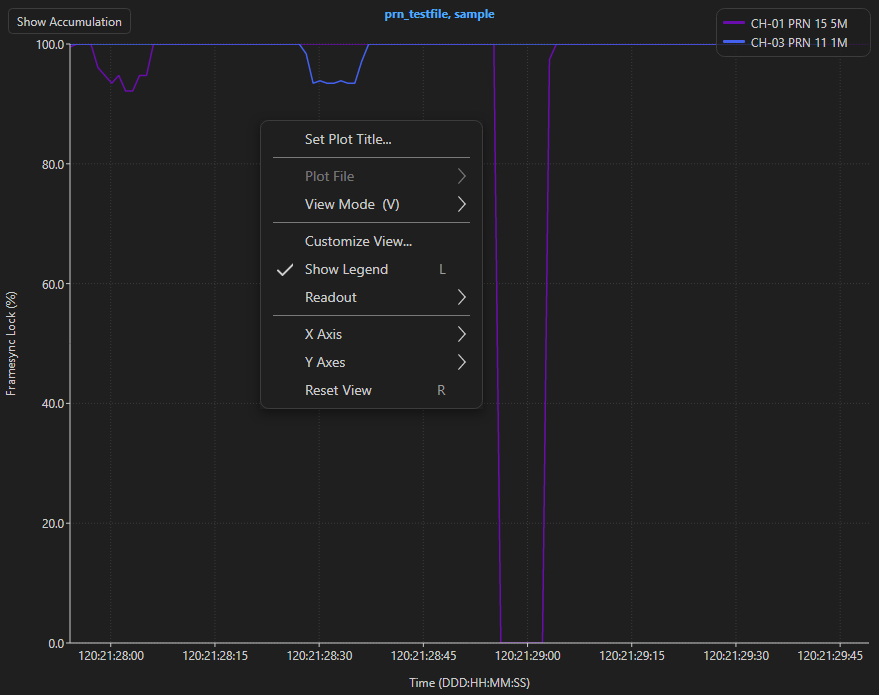
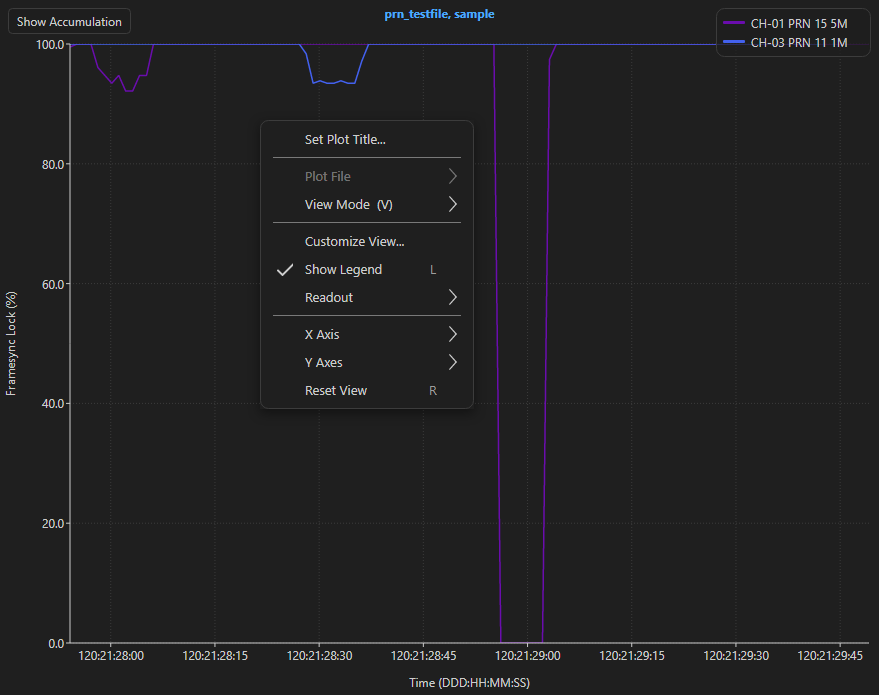
feat(ui): body text at 13 px, as VS Code's is
ControlContentThemeFontSize (the size every control Fluent draws takes its text at, and a window's own text) and our body token are
13, where Fluent's is 14; Customize View's tab headers use the body token. Captions, the chart, the log and the status bar stay 12.
Menu rows stay 28 px (the padding is 5 + 5 now).

Tests: a new one holds the size on every kind of control; mutation check 4/4 caught. App baseline 641 passed / 0 failed / 34 not run.

diff --git a/tests/TmDq.App.Tests/ShellTests.cs b/tests/TmDq.App.Tests/ShellTests.cs
@@ -797,6 +797,33 @@ public sealed class ShellTests : IDisposable
     }
 
     [AvaloniaFact]
+    public void TheTextOfEveryControlIsThirteenPixelsAsVSCodesIs()
+    {
+        // The size Fluent's controls take their text at, and the body token our own text uses, are one: 13, where Fluent's is 14.
+        foreach (ThemeVariant theme in new[] { ThemeVariant.Light, ThemeVariant.Dark })
+        {
+            Assert.True(Application.Current!.TryFindResource("ControlContentThemeFontSize", theme, out object? control));
+            Assert.True(Application.Current!.TryFindResource("BodyTextBlockFontSize", theme, out object? body));
+            Assert.Equal((13.0, 13.0), ((double)control!, (double)body!));
+        }
+        // And the controls do take it, whatever they are: a window's own text, a button, a field, a dropdown, a box, a menu row
+        // (a tab header is display-sized in Fluent, and a dialog's own, in Customize View, is the body size).
+        var text = new TextBlock { Text = "text" };
+        var button = new Button { Content = "OK" };
+        var input = new TextBox { Text = "t" };
+        var combo = new ComboBox { ItemsSource = new[] { "a" }, SelectedIndex = 0 };
+        var box = new CheckBox { Content = "c" };
+        var menu = new MenuFlyoutPresenter { Items = { new MenuItem { Header = "item" } } };
+        var window = new Window { Content = new StackPanel { Children = { text, button, input, combo, box, menu } } };
+        window.Show();
+        Dispatcher.UIThread.RunJobs();
+        Assert.Equal(13.0, window.FontSize);
+        Assert.All(new Control[] { text, button, input, combo, box, (Control)menu.Items[0]! },
+                   c => Assert.Equal((c.GetType().Name, 13.0), (c.GetType().Name, c is TextBlock t ? t.FontSize : ((Avalonia.Controls.Primitives.TemplatedControl)c).FontSize)));
+        window.Close();
+    }
+
+    [AvaloniaFact]
     public void EveryBrushFluentLooksItsControlsUpUnderIsAnAliasOfTheTokenForItsJob()
     {
         // The brushes Fluent's controls, and our chips and loading label, are drawn with are never colours of their own:
@@ -839,10 +866,10 @@ public sealed class ShellTests : IDisposable
         double Double(string key) => (double)Resource(key, theme);
         CornerRadius Radius(string key) => (CornerRadius)Resource(key, theme);
         // Segoe UI Variable, which Windows 11's Fluent is drawn in (Avalonia's own Fluent theme asks for Inter, which is not
-        // bundled, and so fell back to the system font); a caption of 12 and a body of 14; a control's corners 4 and an
+        // bundled, and so fell back to the system font); a caption of 12 and a body of 13 (VS Code's; Fluent's is 14); a control's corners 4 and an
         // overlay's 8 (Avalonia's are 3 and 5).
         Assert.Equal("Segoe UI Variable Text", ((FontFamily)Resource("ContentControlThemeFontFamily", theme)).FamilyNames[0]);
-        Assert.Equal((12.0, 14.0), (Double("CaptionTextBlockFontSize"), Double("BodyTextBlockFontSize")));
+        Assert.Equal((12.0, 13.0), (Double("CaptionTextBlockFontSize"), Double("BodyTextBlockFontSize")));
         Assert.Equal((new CornerRadius(4), new CornerRadius(8)), (Radius("ControlCornerRadius"), Radius("OverlayCornerRadius")));
 
         // Fluent's own controls, and every window, take them.

diff --git a/tests/TmDq.App.Tests/AroundTheChartTests.cs b/tests/TmDq.App.Tests/AroundTheChartTests.cs
@@ -1602,7 +1602,7 @@ public sealed class AroundTheChartTests
                      w.FindControl<ItemsControl>("LockRows")!.GetLogicalDescendants().OfType<TextBox>().Select(t => t.Text));
         boxes[1].IsChecked = false;
         Assert.False(c.LockRows[1].IsChecked);
-        Assert.All(w.FindControl<TabControl>("Tabs")!.Items.OfType<TabItem>(), t => Assert.Equal(14, t.FontSize));
+        Assert.All(w.FindControl<TabControl>("Tabs")!.Items.OfType<TabItem>(), t => Assert.Equal(13, t.FontSize));
 
         // A row's swatch is in its colour, and opens the colour dialog over this one rather than the main window.
         Button swatch = w.FindControl<ItemsControl>("LockRows")!.GetLogicalDescendants().OfType<Button>().First(b => b is not ToggleButton);

diff --git a/docs/claude.md b/docs/claude.md
@@ -409,7 +409,7 @@ The stories below follow the workflow a first-time user takes through the applic
 - [x] The main menu has no icons: its entries are text under section headings, as VS Code's are (the icons came from the toolbar the menu replaced, and four of nine entries had one). The title bar's own buttons are font glyphs that take the theme's colours.
 - [x] The menus (the main menu and the plot's) are drawn as VS Code's are: a row is 28 px high with 12 px of text padding at the sides and sits inset 4 px from the menu's edges; the row under the pointer, or reached by the keys, or whose submenu is open, is the accent (`AccentFillColorDefault`) with its text, its shortcut and its chevron white (`TextOnAccentFillColorPrimary`); the shortcut is the secondary text until then. They are the `MenuFlyoutItem*` brushes as aliases of the tokens, the paddings as resources, and a margin on every `MenuItem`.
 - [x] The application is themed as VS Code's Dark Modern and Light Modern: the main window's chrome (under its title bar, and the log sidebar) is #181818 / #F8F8F8, not black, and the content (the chart, and every dialog) a shade lighter than it, #1F1F1F / white; the title bar, the log and the chart are flush, with no gaps, borders or rounded corners, divided by one-pixel lines (#2B2B2B / #E5E5E5, one under the title bar and one between the log and the chart). Text is #CCCCCC / #3B3B3B, the accent #0078D4 / #005FB8, and the controls Fluent draws (inputs, dropdowns, secondary buttons, checkboxes, menus, tooltips) take VS Code's fills and borders.
-- [x] The theme is written in Fluent's vocabulary, so it can be extended the way Fluent is: the colours are Fluent's semantic tokens (`SolidBackgroundFillColorBase`, `LayerFillColorDefault`, `ControlFillColorDefault`, the strokes, the text and accent ones) as a Color and a Brush each, and every brush Fluent's controls are looked up under is an alias of the token for its job, never a colour of its own. The font is Segoe UI Variable, the type scale Fluent's (caption 12, body 14), and the corners Fluent's (4 px for a control, 8 for an overlay), each a resource that the application's own text and shapes use.
+- [x] The theme is written in Fluent's vocabulary, so it can be extended the way Fluent is: the colours are Fluent's semantic tokens (`SolidBackgroundFillColorBase`, `LayerFillColorDefault`, `ControlFillColorDefault`, the strokes, the text and accent ones) as a Color and a Brush each, and every brush Fluent's controls are looked up under is an alias of the token for its job, never a colour of its own. The font is Segoe UI Variable, the type scale Fluent's with VS Code's body size (caption 12, body 13: the size every control Fluent draws takes its text at, `ControlContentThemeFontSize`, and our own body text, held equal), and the corners Fluent's (4 px for a control, 8 for an overlay), each a resource that the application's own text and shapes use.
 - [x] Every dialog has Fluent's ContentDialog anatomy: its content in 24 px of padding (`ContentDialogPadding`) above one footer band (`DialogFooter`: the base colour under a divider) with its buttons at the right, in equal widths of at least 96 px, 8 px apart; the default button (Enter) is the accent and Escape cancels (the progress dialog alone has no cancel key, since a run must not be stopped by one). What belongs to the choice and not to the answer ("Apply to all", "All") is at the footer's left. The dialogs built in code (`ChoiceWindow`, the prompts, `ReportWindow`) use the same footer through `DialogFooter.Compose`, so no dialog lays its own buttons out.
 - [x] A setting that is on or off (Derandomize, Invert Data, Legacy Chapter 10) is Fluent's toggle switch; a choice among several (a stream to process, "Apply to all", "All", what to export) is a check box.
 - [x] A status bar sits under the log and the chart, in the chrome's colour under a hairline, and says in one short sentence the last thing that happened, so there is an answer with the log hidden: what is under way ("Processing x.ch10..."), what finished ("Finished processing x.ch10: 3 streams.", "Imported x.csv.", "Saved template t.json.", "Exported data, plot image and log file.", "Batch complete: 2 processed, 1 skipped."), what was cancelled, or what went wrong. A success, a warning (finished with something left out) or an error is marked (a tick, a warning sign, a cross) in Fluent's status colour; what is under way, and the first prompt, is not. The sentence is the bar's alone: every path, stream and reason is in the log, and where an action failed the bar says so and points there ("Could not read the template. See the log."). The version is the log's first line and in Help > About, not in the bar. A sentence longer than the bar is cut with an ellipsis and whole in its tooltip.

diff --git a/docs/changelog.md b/docs/changelog.md
@@ -12,6 +12,31 @@ recorded here; and the parity review and soak records moved from `docs/dotnet-mi
 
 ### Unreleased
 
+#### Body text at 13 px, as VS Code's is
+
+Asked for from the parked VS Code items: the interface's text at 13 px where Fluent's is 14. Captions stay 12.
+
+- **`ControlContentThemeFontSize` is 13** (Fluent's is 14): the size every control Fluent draws takes its text at (a button, a field, a
+  dropdown, a check box, a menu row, a tooltip) and a window's own text, so every dialog and the main menu. `BodyTextBlockFontSize` is
+  13 too (it was 14, the "Loading..." label's), and the two are held equal by a test. Customize View's tab headers, which set their own size
+  because Fluent's are display-sized, use the body token (they were a literal 14).
+- **Not changed**: the captions, the chart's and the log's text, the status bar and the chips (all 12); the glyphs and icons (their own sizes).
+- **Menu rows** stay 28 px: with the smaller text the 4 + 5 px of vertical padding gave 27, so it is 5 + 5.
+- A dialog is a little narrower and shorter, each line about a pixel; checked in the re-rendered figures (Configure Streams, the setup
+  dialog, Customize View, the menu). The type scale's other steps (subtitle 20, title 28) are not used by the application.
+
+**Tests:** new `TheTextOfEveryControlIsThirteenPixelsAsVSCodesIs` (the two sizes in both themes, and a window's text, a button, a field, a
+dropdown, a check box and a menu row at 13); `TheFontTheTypeAndTheCornersAreFluents` reads a body of 13; Customize View's tab headers are
+13 where the test said 14. The menu row test still reads 28.
+
+**Mutation check** (`eng\mutate.ps1`, app suite, 4 mutants): **4 of 4 caught**: the controls' size back at 14, the body token back at 14, the
+tab headers at 14, and the menu rows 27 high.
+
+**Baselines:** app **676 passed / 0 failed / 34 not run** (was 675: the new test).
+
+**The manual:** figures re-rendered and the manuals re-embedded: every dialog and menu figure is at 13 px; `walk-cust-02-snr-tree` was
+restored, as before.
+
 #### The core's headers in one folder, and UIConstants split by subject (layout plan PR 6; audit S1, S5)
 
 The last of the source-layout PRs. Behaviour is the same.

diff --git a/.claude/CLAUDE.md b/.claude/CLAUDE.md
@@ -61,7 +61,7 @@ themselves). Use the **PowerShell** tool.
   `UserManual.html` (the full one, with `docs\manual\walkthroughs.html`), their figures rendered from the app by
   `ManualFiguresTests` into `docs\manual_images`: after a change to what a figure shows, rebuild with
   `powershell -ExecutionPolicy Bypass -File eng\build_manual.ps1` (`-NoCapture` reuses the figures). CI runs the
-  app suite. Green baseline **675 passed / 0 failed / 0 skipped**, and **34 not run**: the soak's explicit cases.
+  app suite. Green baseline **676 passed / 0 failed / 0 skipped**, and **34 not run**: the soak's explicit cases.
   **The side-by-side soak:** `powershell -ExecutionPolicy Bypass -File eng\run_soak.ps1 [-NoBuild]
   [-Only <run>,...]` runs every run in `tests\TmDq.App.Tests\Soak\soak.json` (`SoakTests`, explicit, one process a
   run) and fails unless each CSV export is byte for byte what v2.14.2 exported (the manifest's `qt` blocks). Most
